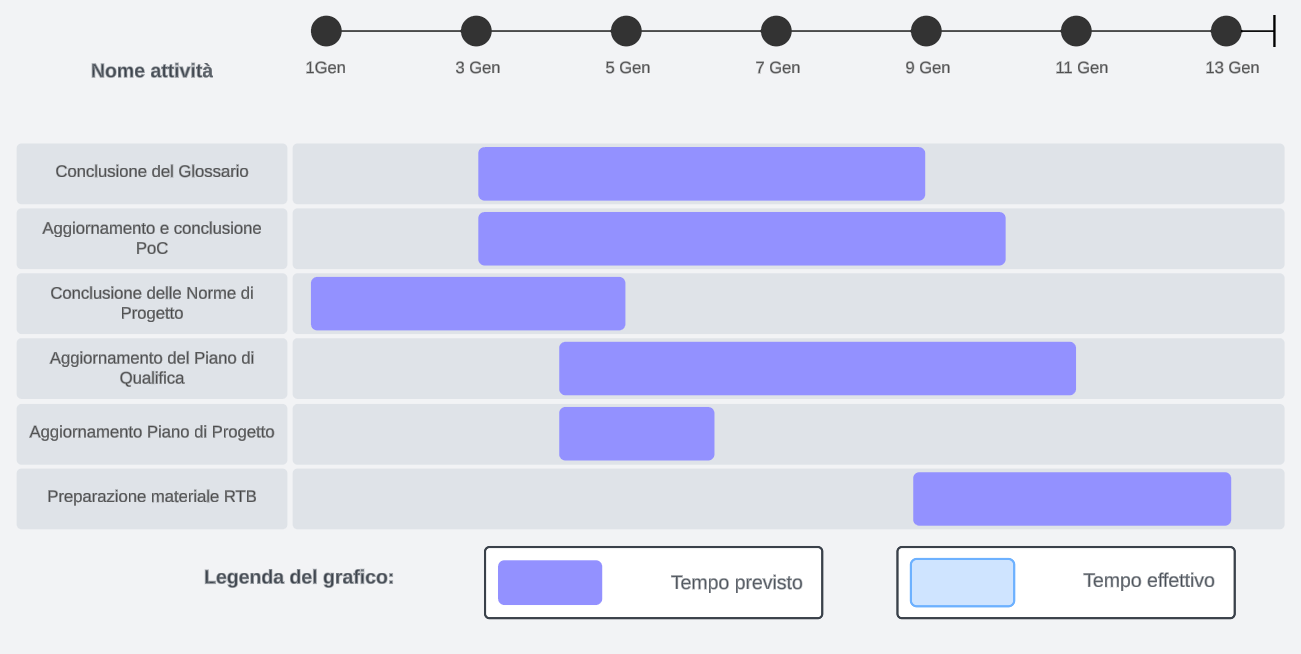
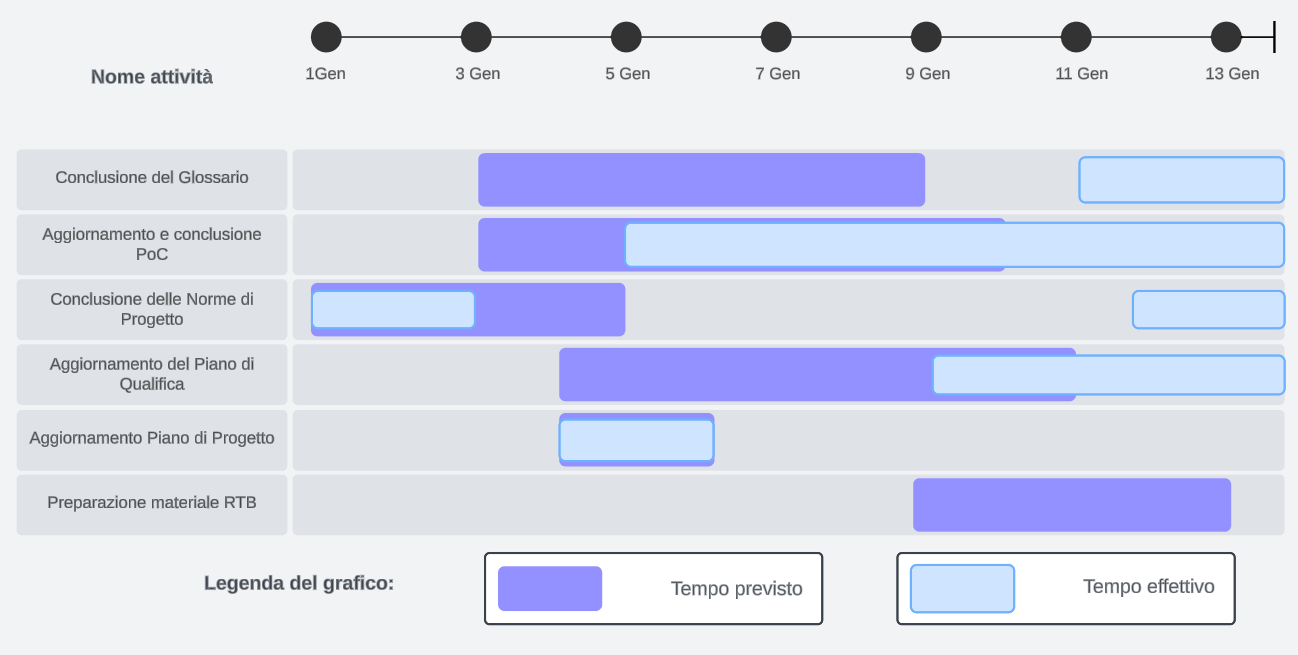
Aggiornamento capitolo 3,4 e 5

diff --git a/2-RTB/Documentazione_esterna/Piano_di_progetto/consuntivo.tex b/2-RTB/Documentazione_esterna/Piano_di_progetto/consuntivo.tex
@@ -370,3 +370,99 @@ L'Analisi dei requisiti sembra giunta ad una versione definitiva (Analisi\_dei\_
 Il Proof of Concept è, anche dopo questo sprint, ad una versione potenzialmente finale. Si è comunque deciso di proseguire nella sua programmazione, nel tentativo di migliorarlo in vista della revisione di avanzamento.
 Non sono previsti particolari interventi sul Glossario, vicino all'approvazione finale.
 \newpage
+
+
+\subsection{Quinto sprint: 2024/01/01 - 2024/01/14}
+
+\subsubsection{Consuntivo orario}
+{
+\setlength{\tabcolsep}{10pt}
+\renewcommand{\arraystretch}{1.5}
+\rowcolors{2}{oddrow}{evenrow}
+\begin{table}[h!]
+    \centering
+    \begin{tabularx}{\textwidth}{| l | c | c | c | c | c | c | X |}
+        \hline
+        \rowcolor{headerrow} \textbf{\textcolor{white}{Membro}} & \textbf{\textcolor{white}{R.}} & \textbf{\textcolor{white}{Am.}} & \textbf{\textcolor{white}{Pj.}} & \textbf{\textcolor{white}{An.}} & \textbf{\textcolor{white}{Pg.}} & \textbf{\textcolor{white}{V.}} & \textbf{\textcolor{white}{Totale}} \\
+        \hline
+        Andrea Cecchin & 5 & -  & - & - & - & - & \textbf{5} \\
+        \hline
+        Marco Dolzan & - & - & 2 & - & - & 3 & \textbf{5} \\
+        \hline
+        Francesco Ferraioli & - & 1 & - & - & 2 & 3 & \textbf{6} \\
+        \hline  
+        Francesco Giacomuzzo & - & 2 & - & - & 3 & - & \textbf{5} \\
+        \hline
+        Leonardo Lago & - & - & 1 & 3 & - & 3 & \textbf{7} \\
+        \hline
+        Giovanni Menon & - & - & 2 & 2 & - & 3 & \textbf{7} \\
+        \hline
+        Anna Nordio & - & 2 & - & - & - & 3 & \textbf{5} \\
+        \hline
+    \cellcolor{headerrow} \textbf{\textcolor{white}{Totale}} & \textbf{5} & \textbf{5} & \textbf{5} & \textbf{5} & \textbf{5} & \textbf{15} & \textbf{40} \\
+        \hline
+    \end{tabularx} 
+    \caption{Consuntivo orario quinto sprint}
+    \label{tab:consuntivoorarioquintosprint}
+\end{table}
+}
+
+\begin{figure}[h!]
+    \centering
+    \includegraphics[width=0.8\textwidth]{cons5ruoli.png}
+    \caption{Ruoli effettivi quinto sprint}
+    \label{fig:consuntivoorarioquintosprint}
+\end{figure}
+
+\newpage
+\subsubsection{Consuntivo economico}
+{
+\setlength{\tabcolsep}{10pt}
+\renewcommand{\arraystretch}{1.5}
+\rowcolors{2}{oddrow}{evenrow}
+\begin{table}[h]
+    \centering
+    \begin{tabularx}{\textwidth}{| l | l | l | X |}
+        \hline
+        \rowcolor{headerrow} \textbf{\textcolor{white}{Ruolo}} & \textbf{\textcolor{white}{Costo orario}} & \textbf{\textcolor{white}{Ore impiegate}} & \textbf{\textcolor{white}{Costo €}} \\
+        \hline
+        Responsabile & 30 & 5 & 150\\
+        \hline
+        Amministratore & 20 & 5 & 100\\
+        \hline
+        Progettista & 25 & 5 & 125\\
+        \hline
+        Analista & 25 & 5 & 125\\
+        \hline
+        Programmatore & 15 & 5 & 75\\
+        \hline
+        Verificatore & 15 & 15 & 225\\
+        \hline
+        \cellcolor{headerrow} \textbf{\textcolor{white}{Totale}} &  &  & \textbf{800}\\
+        \hline
+        \cellcolor{headerrow} \textbf{\textcolor{white}{Rimanente}} &  &  & \textbf{7465}\\
+        \hline
+    \end{tabularx}
+    \caption{Consuntivo economico quinto sprint}
+    \label{tab:consuntivocostiquintosprint}
+\end{table}
+}
+
+\begin{figure}[h!]
+    \centering
+    \includegraphics[width=0.8\textwidth]{cons5costo.png}
+    \caption{Costo quinto e rimanente}
+    \label{fig:consuntivocostoquintopsprint}
+\end{figure}
+
+\newpage
+\subsubsection{Analisi retrospettiva}
+Analizzando le ore impiegate in questo sprint, in relazione allo stato di avanzamento del progetto, il periodo appena terminato risulta essere molto produttivo ma non del tutto soddisfacente, in quanto saranno necessarie alcune modifiche ai documenti, posticipando così il soddisfacimento degli obbiettivi prefissati.\\
+L'Analisi dei requisiti è stata aggiornata modificando alcune sezioni e portandola a una versione quasi definitiva (Analisi\_dei\_requisiti\_v0.19).\\
+Il Piano di qualifica è stato aggiornato ad una versione piuttosto avanzata (Piano\_di\_qualifica\_v0.7), contenente un cruscotto con tutti i valori delle metriche, aggiornato.\\
+Allo stesso tempo, le Norme di progetto (Norme\_di\_progetto\_v0.15) sono avanzate con l'aggiornamento di alcune sezioni (§3.4) e (§4.2).\\
+Sono state aggiunte delle definizioni al Glossario, che risulta essere quasi completo e vicino all'approvazione finale.\\
+Il Proof of Concept è stato ulteriormente aggiornato e migliorato, ed è di fatto, ad una versione potenzialmente finale.\\
+L'Analisi dei requisiti e il Piano di qualifica dovranno subire delle modifiche inizialmente non preventivate, dovute a un colloquio col professor Cardin, tenutosi successivamente all'ultimo aggiornamento dei documenti, dove sono emerse alcune imperfezioni nei diversi tipi di requisiti.\\
+
+\newpage

diff --git a/2-RTB/Documentazione_esterna/Piano_di_progetto/preventivo.tex b/2-RTB/Documentazione_esterna/Piano_di_progetto/preventivo.tex
@@ -440,6 +440,90 @@ Nel preventivo orario, per questioni di comodità, i \ccgloss{ruoli} vengono rip
 
 \newpage
 
+\subsection{Sesto sprint: 2024/01/15 - 2024/01/28}
+\subsubsection{Preventivo orario}
+{
+\setlength{\tabcolsep}{10pt}
+\renewcommand{\arraystretch}{1.5}
+\rowcolors{2}{oddrow}{evenrow}
+\begin{table}[h!]
+    \centering
+    \begin{tabularx}{\textwidth}{| l | c | c | c | c | c | c | X |}
+        \hline
+        \rowcolor{headerrow} \textbf{\textcolor{white}{Membro}} & \textbf{\textcolor{white}{R.}} & \textbf{\textcolor{white}{Am.}} & \textbf{\textcolor{white}{Pj.}} & \textbf{\textcolor{white}{An.}} & \textbf{\textcolor{white}{Pg.}} & \textbf{\textcolor{white}{V.}} & \textbf{\textcolor{white}{Totale}} \\
+        \hline
+        Andrea Cecchin & - & - & 2 & 2 & - & 2 & \textbf{6} \\
+        \hline
+        Marco Dolzan & 4 & - & - & - & - & - & \textbf{4} \\
+        \hline
+        Francesco Ferraioli & - & - & 2 & - & 2 & 2 & \textbf{6} \\
+        \hline  
+        Francesco Giacomuzzo & - & - & - & 2 & 3 & - & \textbf{5} \\
+        \hline
+        Leonardo Lago & - & - & 1 & - & 2 & 2 & \textbf{5} \\
+        \hline
+        Giovanni Menon & - & - & 3 & - & 2 & 1 & \textbf{6} \\
+        \hline
+        Anna Nordio & - & - & 4 & - & 1 & 3 & \textbf{8} \\
+        \hline
+    \cellcolor{headerrow} \textbf{\textcolor{white}{Totale}} & \textbf{4} & \textbf{0} & \textbf{12} & \textbf{4} & \textbf{10} & \textbf{10} & \textbf{40} \\
+        \hline
+    \end{tabularx} 
+    \caption{Preventivo orario sesto sprint}
+    \label{tab:preventivoorariosestosprint}
+\end{table}
+}
+
+\begin{figure}[h!]
+    \centering
+    \includegraphics[width=0.9\textwidth]{prev6ruoli.png}
+    \caption{Distribuzione dei ruoli sesto sprint}
+    \label{fig:preventivoorariosestosprint}
+\end{figure}
+
+\subsubsection{Preventivo economico}
+{
+\setlength{\tabcolsep}{10pt}
+\renewcommand{\arraystretch}{1.5}
+\rowcolors{2}{oddrow}{evenrow}
+\begin{table}[h]
+    \centering
+    \begin{tabularx}{\textwidth}{| l | l | l | X |}
+        \hline
+        \rowcolor{headerrow} \textbf{\textcolor{white}{Ruolo}} & \textbf{\textcolor{white}{Costo orario}} & \textbf{\textcolor{white}{Ore impiegate}} & \textbf{\textcolor{white}{Costo €}} \\
+        \hline
+        Responsabile & 30 & 4 & 120\\
+        \hline
+        Amministratore & 20 & 0 & 0\\
+        \hline
+        Progettista& 25 & 12 & 300\\
+        \hline
+        Analista & 25 & 4 & 100\\
+        \hline
+        Programmatore & 15 & 10 & 150\\
+        \hline
+        Verificatore & 15 & 10 & 150\\
+        \hline
+        \cellcolor{headerrow} \textbf{\textcolor{white}{Totale}} &  &  & \textbf{820}\\
+        \hline
+        \cellcolor{headerrow} \textbf{\textcolor{white}{Rimanente}} &  &  & \textbf{6645}\\
+        \hline
+    \end{tabularx}
+    \caption{Preventivo economico sesto sprint}
+    \label{tab:preventivocostisestosprint}
+\end{table}
+}
+
+\begin{figure}[h!]
+    \centering
+    \includegraphics[width=0.9\textwidth]{prev6costo.png}
+    \caption{Costo preventivato sesto sprint e rimanente}
+    \label{fig:preventivocostosestosprint}
+\end{figure}
+
+
+\newpage
+
 \section{Product Baseline}
 
 \newpage

diff --git a/2-RTB/Documentazione_esterna/Piano_di_progetto/pianificazione.tex b/2-RTB/Documentazione_esterna/Piano_di_progetto/pianificazione.tex
@@ -108,4 +108,25 @@ Per adottare questo modello di sviluppo, è stato deciso di utilizzare degli \cc
 \end{figure}
 \newpage
 
+\subsection{Sesto sprint: 2024/01/15 - 2024/01/28}
+\subsubsection{Obiettivi}
+\begin{itemize}
+    \item Aggiornamento e conclusione dell'Analisi dei requisiti;
+    \item Aggiornamento del Piano di Progetto;
+    \item Conclusione delle Norme di Progetto;
+    \item Conclusione del Glossario;
+    \item Aggiornamento e conclusione PoC;
+    \item Preparazione del materiale per revisione RTB;
+    \item Invio richiesta per revisione RTB;
+    \item Inizio pianificazione e progettazione in ottica MVP.
+\end{itemize}
+
+\begin{figure}[h!]
+    \centering  
+    \includegraphics[width=\textwidth]{Roadmap6sprint.png}
+    \caption{Diagramma di Gantt del sesto sprint}
+    \label{fig:roadmap6s}
+\end{figure}
+\newpage
+
 \section{Product Baseline}
